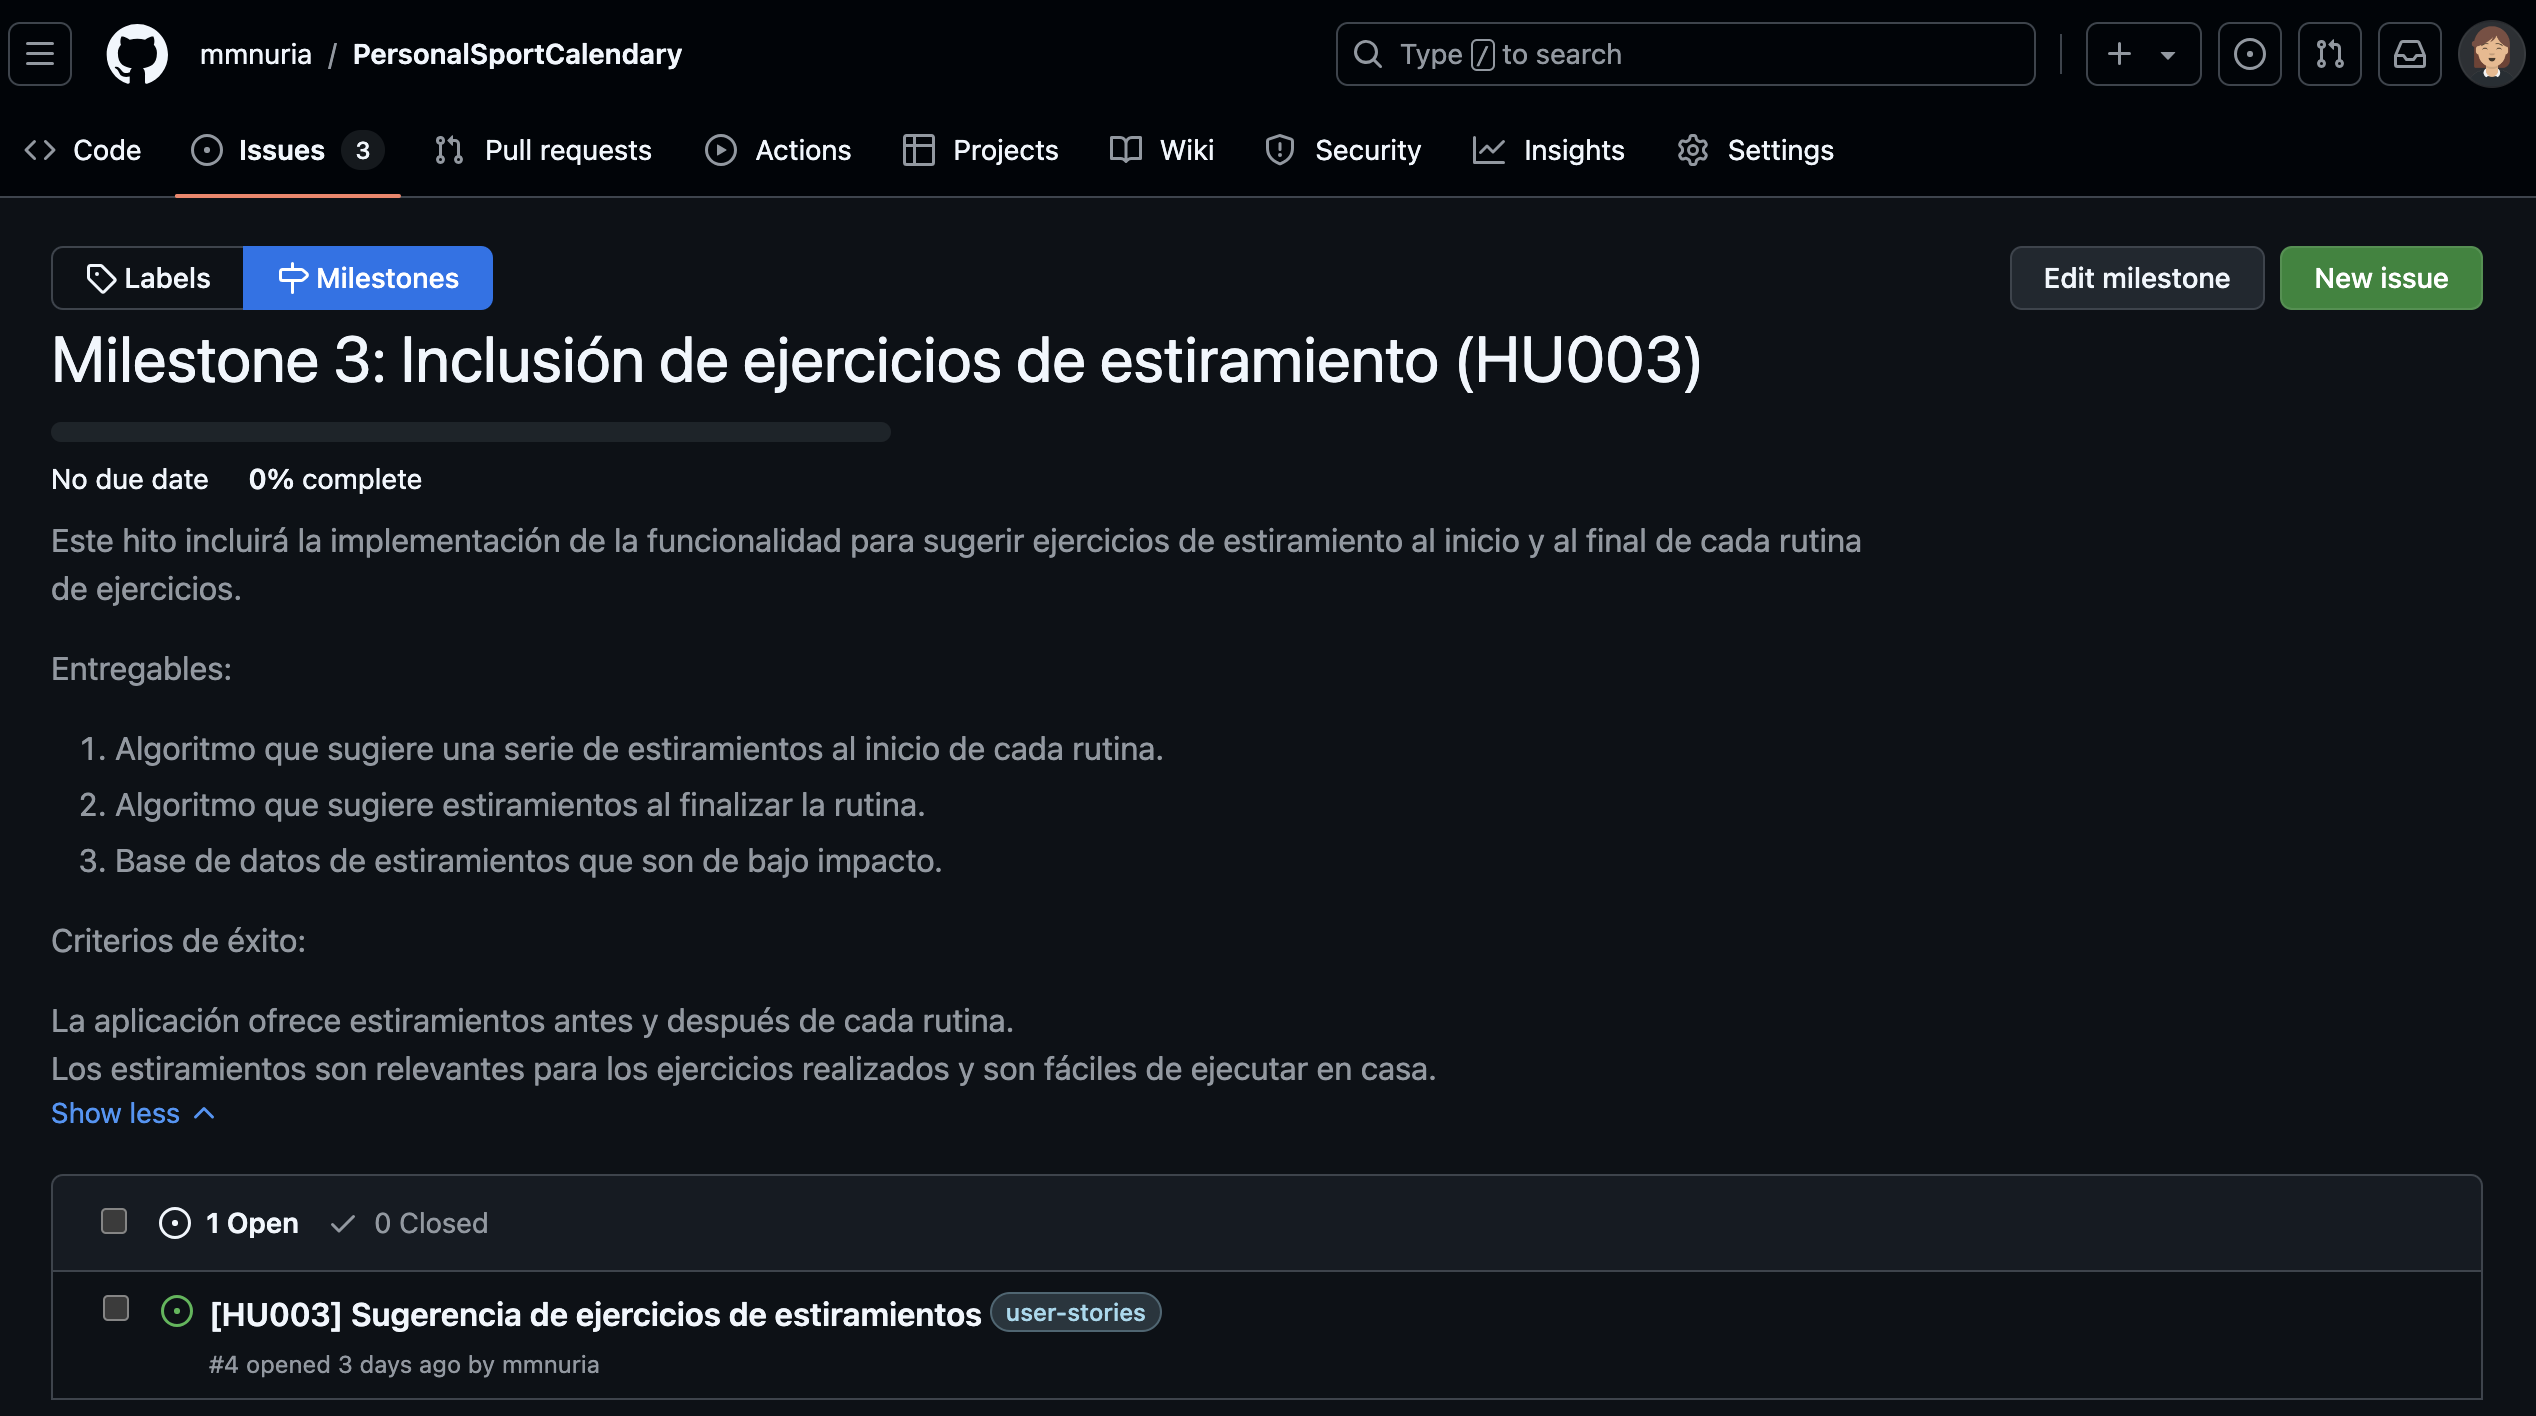
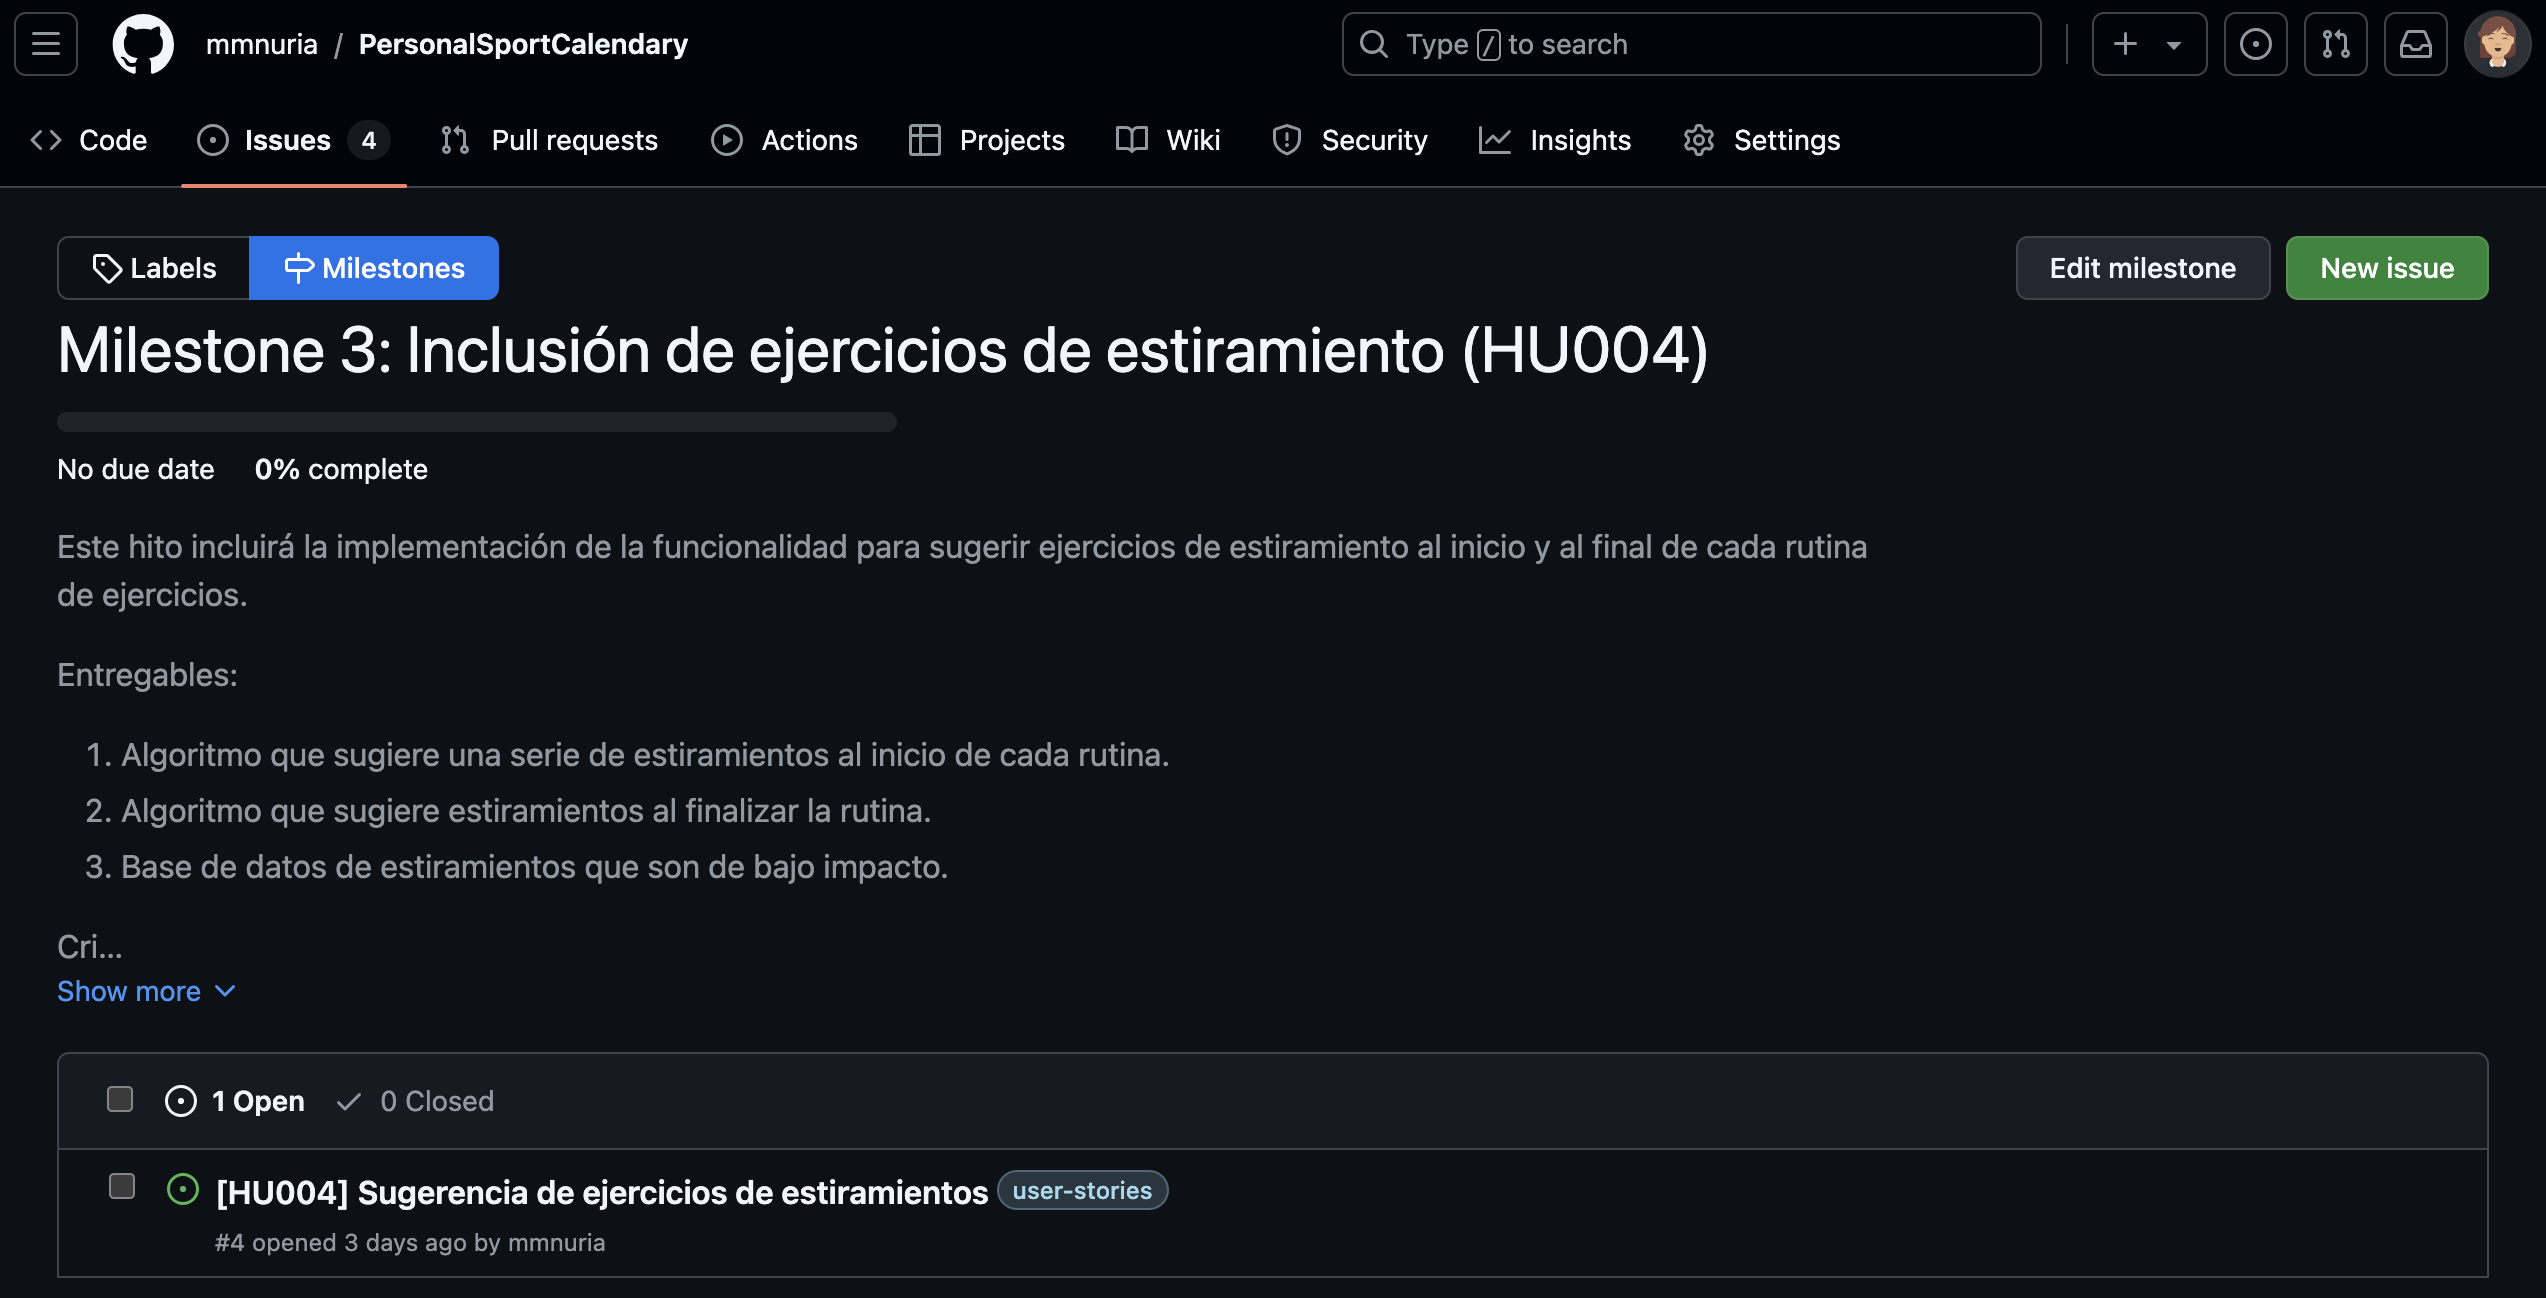
documentation screenshot arrangement

diff --git a/docs/HUs/HUs.md b/docs/HUs/HUs.md
@@ -12,20 +12,28 @@ El objetivo es desarrollar una solución que permita a los usuarios realizar eje
 
 Basándonos en este contexto inicial, se definieron las siguientes **historias de usuario** para abordar las necesidades específicas de los usuarios:
 
-1. [HU001 Selección de tiempo disponible para el ejercicio](./HU001.png) : 
+1. [HU001 Como usuario con múltiples responsabilidades, quiero que mis necesidades relacionadas con el ejercicio y la falta de tiempo sean comprendidas y bien documentadas, para poder mantenerme activo sin sacrificar otras áreas importantes de mi vida: ](./HU001.png)
+
+>
+>Descripción:
+>
+>Como usuario con una vida ocupada, quiero asegurarme de que se entienden bien mis limitaciones de tiempo y las dificultades que enfrento para mantenerme físicamente activo. Esto me permitirá recibir soluciones que se adapten a mi realidad, ayudándome a equilibrar mi vida personal, laboral y mi bienestar físico.
+
+
+2. [HU002 Selección de tiempo disponible para el ejercicio](./HU002.png) : 
 >
 >Descripción:
 >
 >Como usuario, con una agenda ocupada, quiero poder seleccionar el tiempo que tengo disponible (por ejemplo, 10, 20 o 30 minutos) y los días de >la semana, para que la aplicación me proporcione una rutina de ejercicios adecuada a ese tiempo, de manera que pueda mantenerme físicamente activo sin afectar mis otras responsabilidades.
 
-2. [HU002 Rutinas adaptadas al equipamiento disponible en casa](./HU002.png) : 
+3. [HU003 Rutinas adaptadas al equipamiento disponible en casa](./HU003.png) : 
 
 >Descripción: 
 >
 >Como usuario, no quiero perder tiempo en ir a gimnasios para mantenerme activo, por lo que poseo de equipamiento deportivo en casa (pesas, bandas elásticas, esterilla, etc.), quiero poder indicar qué materiales tengo para tener rutinas que incluyan el uso de estos equipos, de manera que aproveche al máximo los recursos disponibles.
 
 
-3. [HU003 Inclusión de ejercicios de estiramiento](./HU003.png): 
+4. [HU004 Inclusión de ejercicios de estiramiento](./HU004.png): 
 
 >Descipción:
 >
